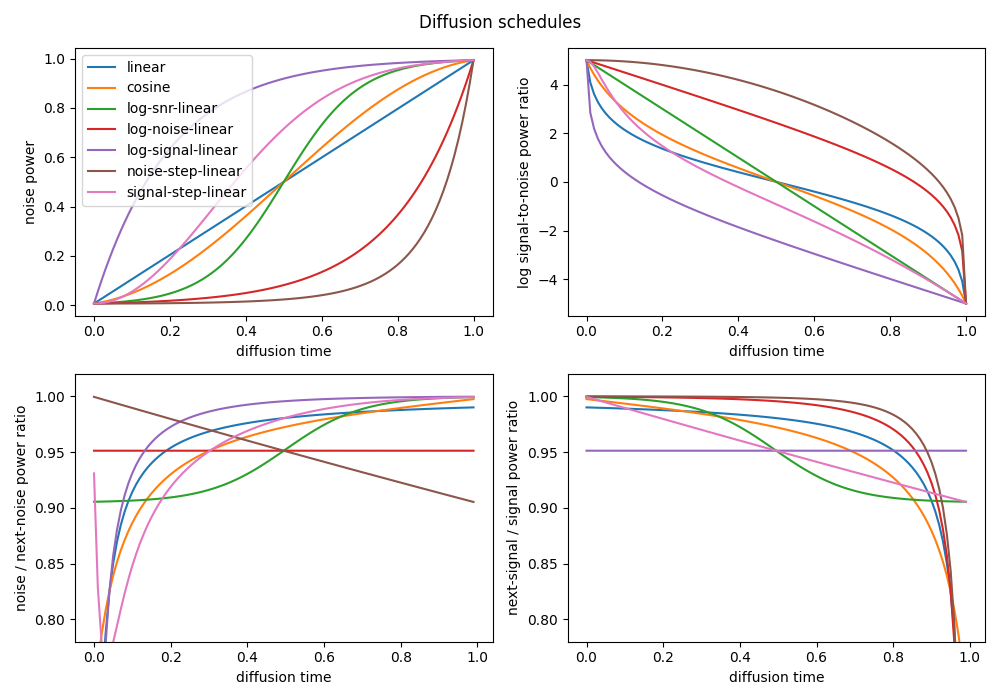
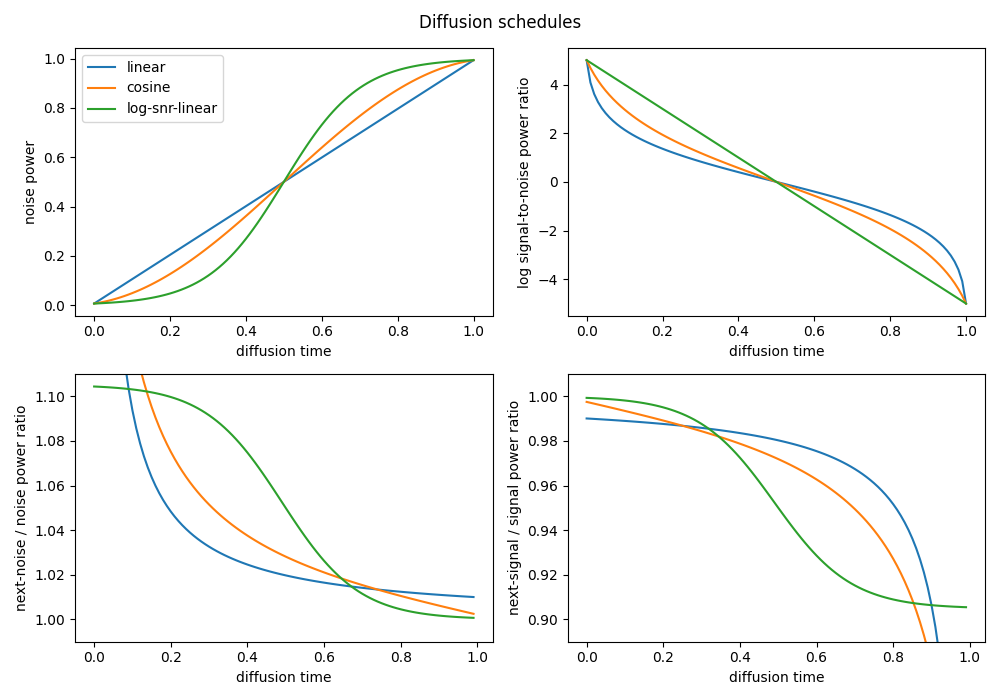
update schedules

diff --git a/model.py b/model.py
@@ -119,7 +119,7 @@ class DiffusionModel(keras.Model):
         elif self.schedule_type == "cosine":
             # noise rate increases sinusoidally
             # signal rate decreases as a cosine function
-            # simplified from Improved DDPM https://arxiv.org/abs/2102.09672
+            # simplified from the "cosine schedule" of Improved DDPM https://arxiv.org/abs/2102.09672
             start_angle = tf.asin(start_noise_power ** 0.5)
             end_angle = tf.asin(end_noise_power ** 0.5)
             diffusion_angles = start_angle + diffusion_times * (end_angle - start_angle)
@@ -132,39 +132,6 @@ class DiffusionModel(keras.Model):
             noise_powers = start_snr ** diffusion_times / (
                 start_snr * end_snr ** diffusion_times + start_snr ** diffusion_times
             )
-
-        elif self.schedule_type == "log-noise-linear":
-            # the log noise power increases linearly
-            # the noise power increases exponentially
-            # the ratio between current and next-step noise powers is constant
-            noise_powers = (
-                start_noise_power
-                * (end_noise_power / start_noise_power) ** diffusion_times
-            )
-
-        elif self.schedule_type == "log-signal-linear":
-            # the log signal power decreases linearly
-            # the signal power decreases exponentially
-            # the ratio between current and next-step signal powers is constant
-            noise_powers = (
-                1.0
-                - (1.0 - start_noise_power)
-                * ((1.0 - end_noise_power) / (1.0 - start_noise_power))
-                ** diffusion_times
-            )
-
-        elif self.schedule_type == "noise-step-linear":
-            # the ratio between current and next-step noise powers decreases linearly
-            noise_powers = start_noise_power * (
-                end_noise_power / start_noise_power
-            ) ** (diffusion_times ** 2)
-
-        elif self.schedule_type == "signal-step-linear":
-            # the ratio between next-step and current signal powers decreases linearly
-            # based on DDPM https://arxiv.org/abs/2006.11239
-            noise_powers = 1.0 - (1.0 - start_noise_power) * (
-                (1.0 - end_noise_power) / (1.0 - start_noise_power)
-            ) ** (diffusion_times ** 2)
 
         else:
             raise NotImplementedError("Unsupported sampling schedule.")

diff --git a/README.md b/README.md
@@ -9,7 +9,7 @@ This repository contains:
 * Stochastic sampling, with which the model becomes a [Denoising Diffusion Probabilistic Model (DDPM)](https://arxiv.org/abs/2006.11239). `Stochasticity` corresponds to *eta* in the DDIM paper, while the `variance_preserving` flag selects between the two sampling versions ([Equation 16 in DDIM](https://arxiv.org/abs/2010.02502)).
 * [General second-order sampling](https://en.wikipedia.org/wiki/List_of_Runge%E2%80%93Kutta_methods#Generic_second-order_method), as proposed in [Elucidating the Design Space of Diffusion-Based Generative Models](https://arxiv.org/abs/2206.00364), controlled with `second_order_alpha`.
 * [Multistep sampling](https://en.wikipedia.org/wiki/Linear_multistep_method#Adams%E2%80%93Bashforth_methods), similarly to [Pseudo Numerical Methods for Diffusion Models on Manifolds (PNDM)](https://arxiv.org/abs/2202.09778), supporting `num_multisteps` between 1 and 5. Note that in the initial steps I use lower order multistep sampling, instead of other higher-order methods, for simplicity.
-* 7 diffusion schedules, selected with `schedule_type`, see below.
+* 3 diffusion schedules, selected with `schedule_type`, see below.
 * 3 network parametrizations, selected with `prediction_type`. It can predict the unscaled random gaussian noise, the original image, or even the [diffusion velocity (v in Section 4)](https://arxiv.org/abs/2202.00512).
 * 3 loss weightings, selected with `loss_type`, which correspond minimising the error of the predicted unscaled noise, predicted original image, or the [diffusion velocity](https://arxiv.org/abs/2202.00512).
 
